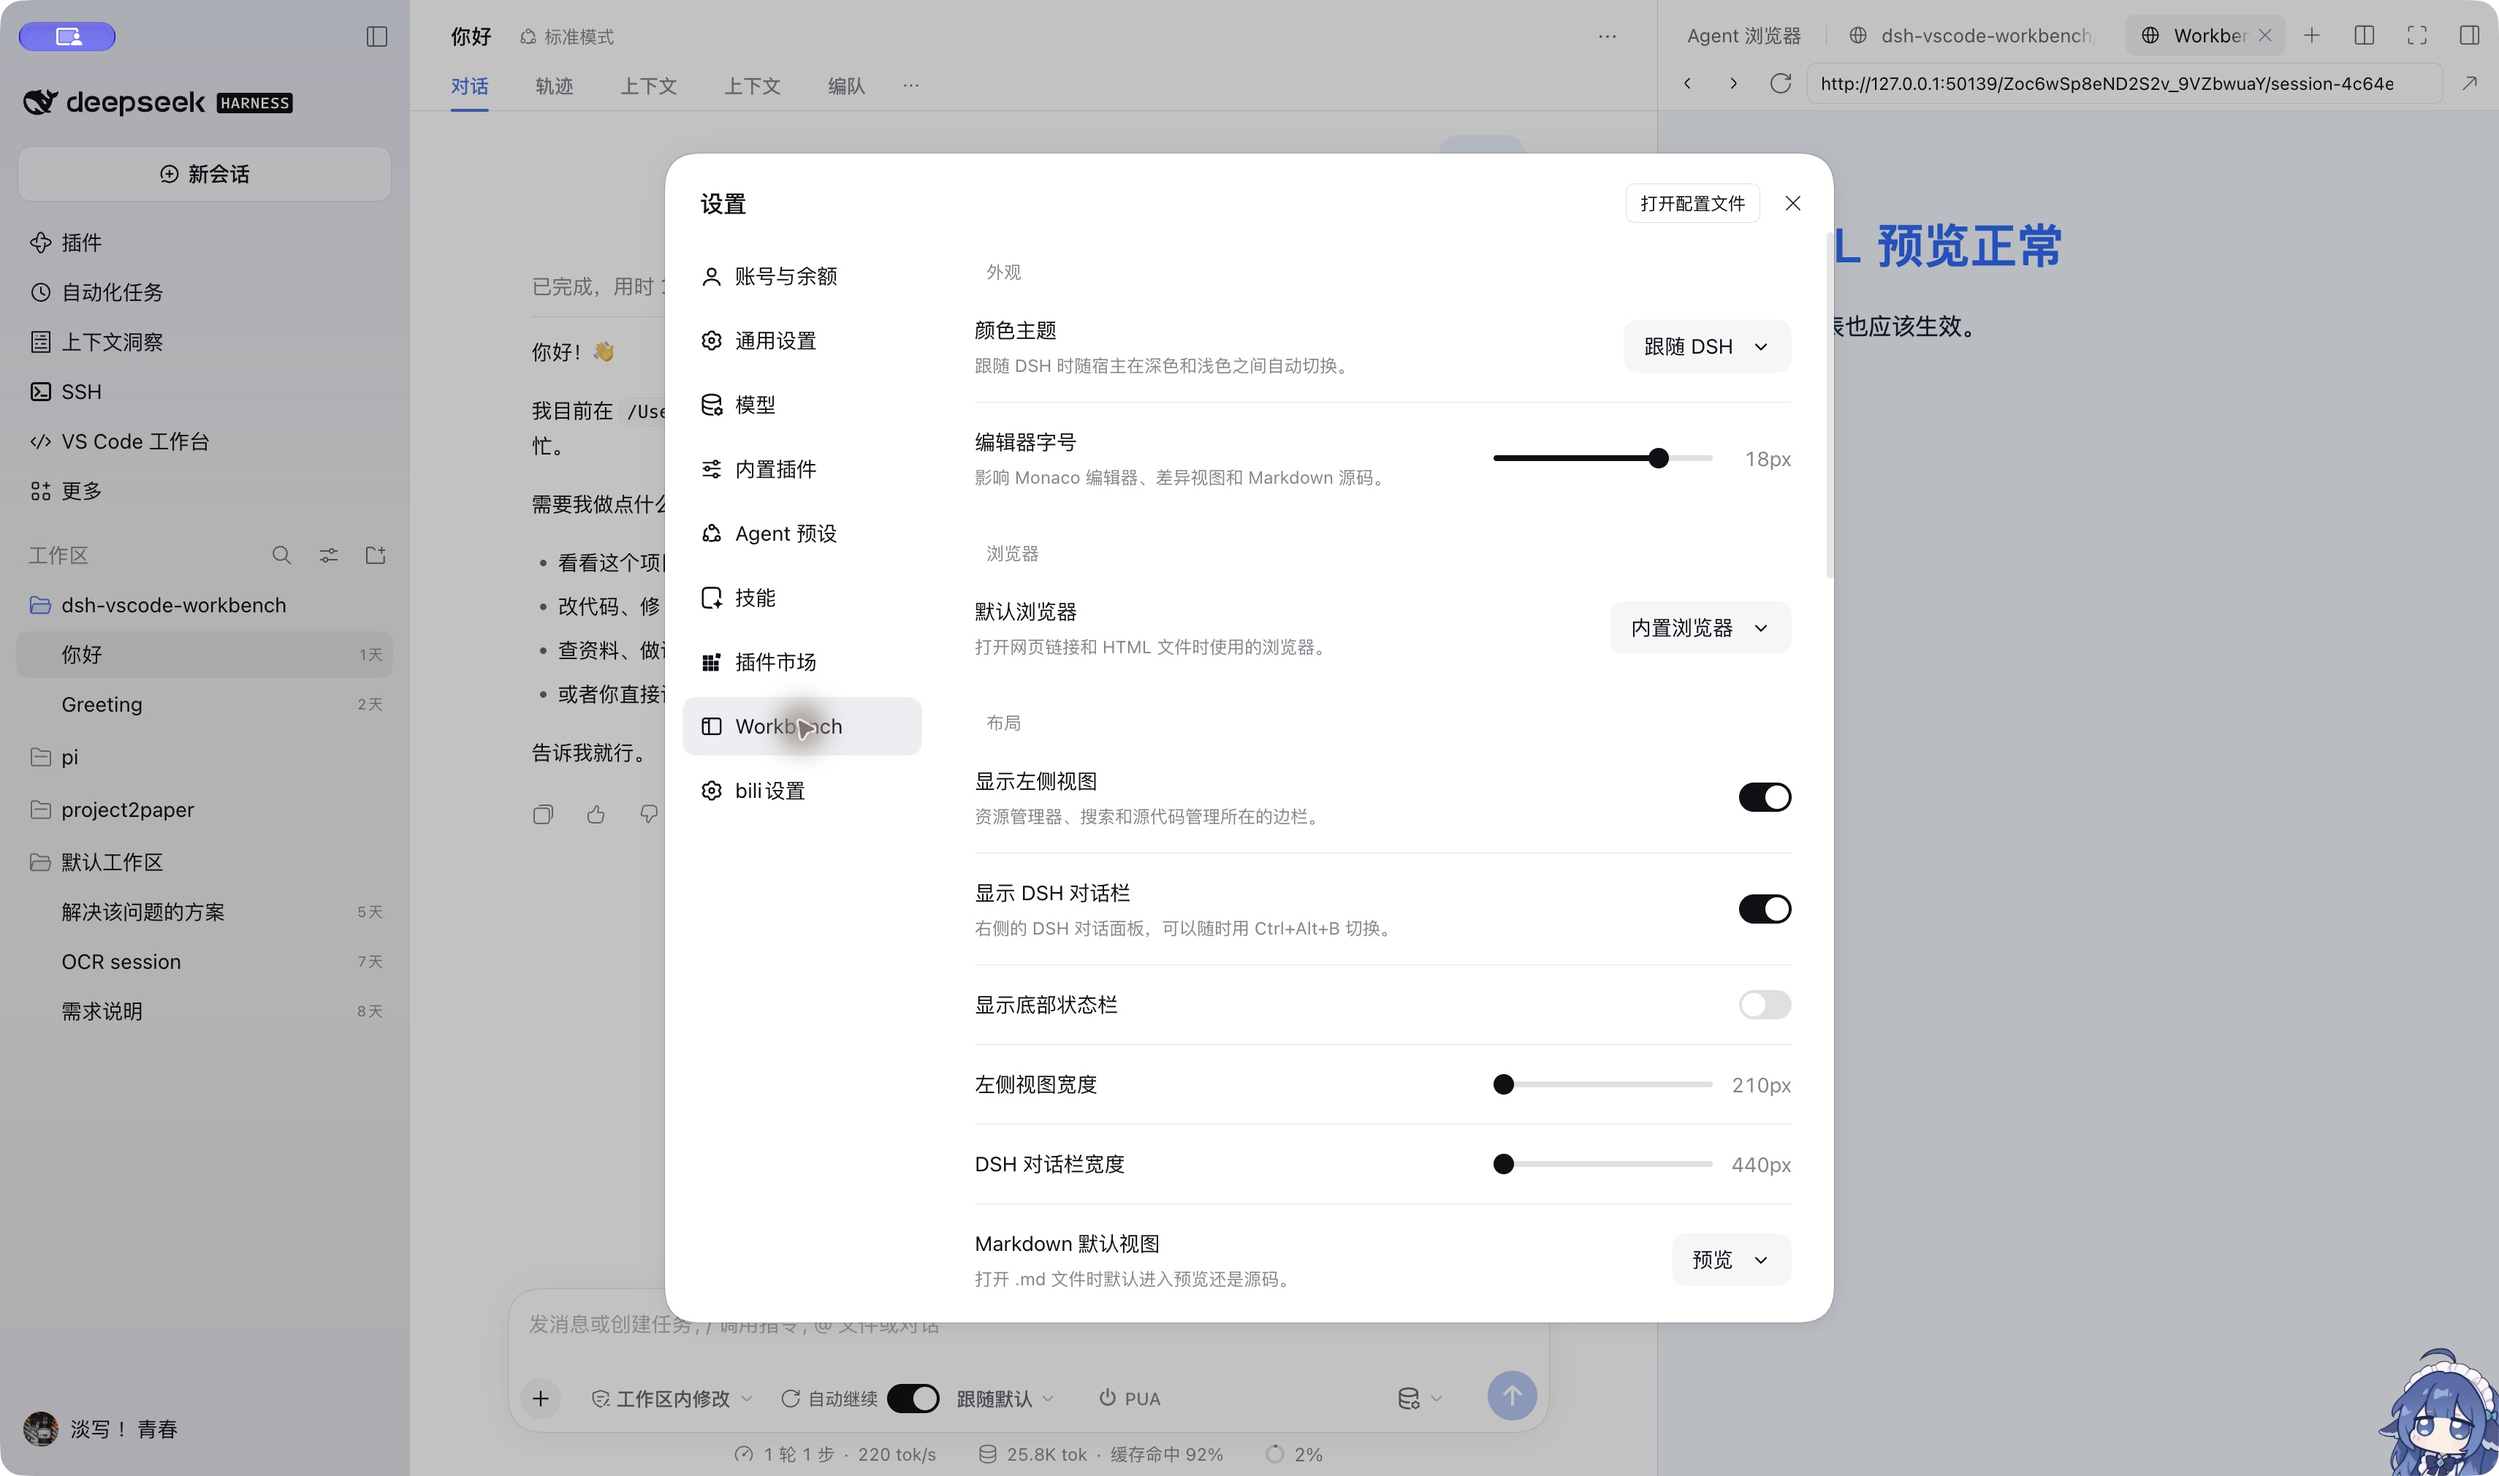
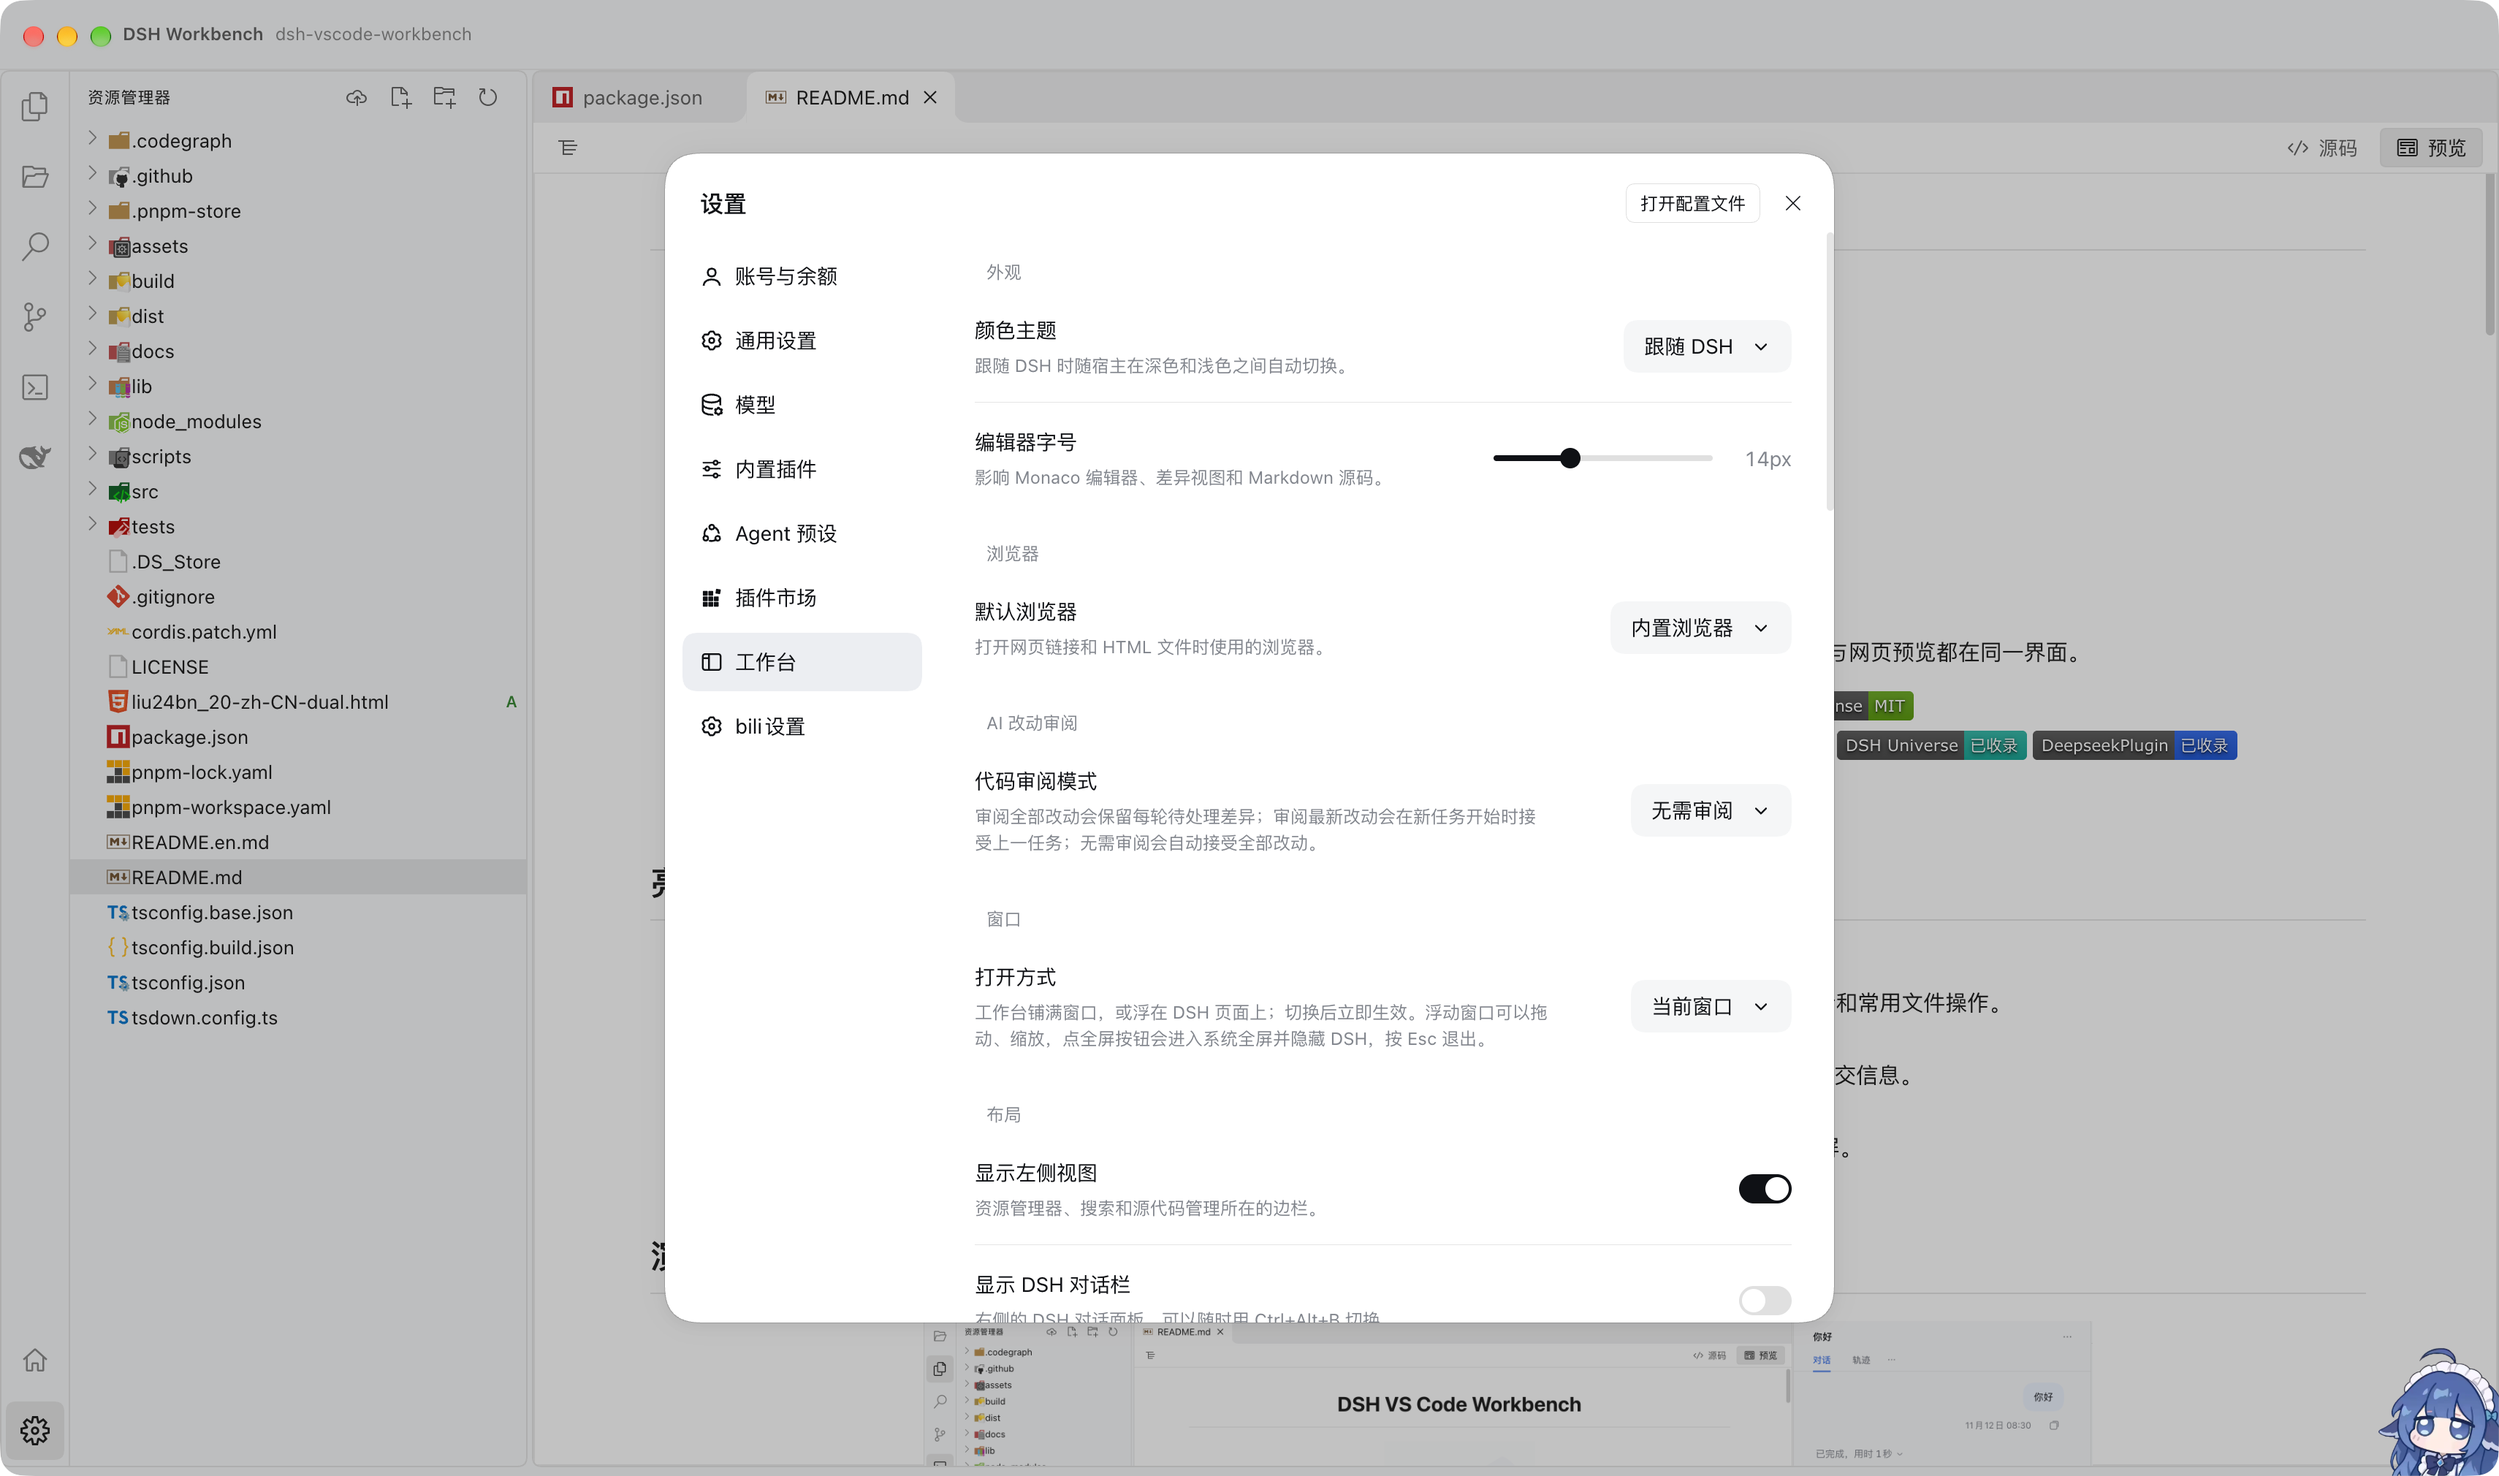
docs: refresh workbench screenshots and describe Git tools

diff --git a/README.en.md b/README.en.md
@@ -34,35 +34,46 @@
 - **Two ways to open**: fill the window as before, or float the workbench over DSH with dragging, eight-way resizing, and real fullscreen.
 - **Built for DSH**: reuse the DSH conversation surface on the right and manage theme and layout from the Workbench page in DSH settings.
 
+## Git workflow
+
+- Open **Git Tools** from Source Control to browse commit or file history, compare branches, tags, commits, or the working tree, manage stashes, sync branches, and resolve merge conflicts.
+- In **Settings → Workbench → Git**, choose a diff style. VS Code opens inline by default. IDEA / PyCharm opens side by side with linked scrolling. Both styles let you switch layouts, navigate changes, and collapse unchanged lines.
+- Click a line in the editor or diff view to see its author, date, short hash, and commit subject at the end of the line. Git line attribution is on by default and can be turned off in the same settings section.
+
 ## Demo
 
 <p align="center">
-  <img src="https://raw.githubusercontent.com/tingfeng347/dsh-vscode-workbench/main/assets/screenshots/workbench-light.png" width="800" alt="Explorer, Markdown preview, terminal, and DSH conversation">
+  <img src="assets/screenshots/workbench-light.png" width="800" alt="Explorer, Markdown preview, terminal, and DSH conversation">
   <br><em>Explorer, Markdown preview, terminal, and DSH conversation</em>
 </p>
 
 <p align="center">
-  <img src="https://raw.githubusercontent.com/tingfeng347/dsh-vscode-workbench/main/assets/screenshots/references-light.png" width="800" alt="Find references with Peek results in the editor">
+  <img src="assets/screenshots/references-light.png" width="800" alt="Find references with Peek results in the editor">
   <br><em>Find references with Peek results in the editor</em>
 </p>
 
 <p align="center">
-  <img src="https://raw.githubusercontent.com/tingfeng347/dsh-vscode-workbench/main/assets/screenshots/source-control-light.png" width="800" alt="Source control, commit graph, and inline/split diffs">
+  <img src="assets/screenshots/source-control-light.png" width="800" alt="Source control, commit graph, and inline/split diffs">
   <br><em>Source control, commit graph, and inline/split diffs</em>
 </p>
 
 <p align="center">
-  <img src="https://raw.githubusercontent.com/tingfeng347/dsh-vscode-workbench/main/assets/screenshots/welcome-light.png" width="800" alt="Start a terminal or open the browser from the empty editor">
+  <img src="assets/screenshots/git-diff-side-by-side-light.png" width="800" alt="IDEA / PyCharm side-by-side diff with change connectors, folding, and navigation">
+  <br><em>IDEA / PyCharm side-by-side diff with change connectors, folding, and navigation</em>
+</p>
+
+<p align="center">
+  <img src="assets/screenshots/welcome-light.png" width="800" alt="Start a terminal or open the browser from the empty editor">
   <br><em>Start a terminal or open the browser from the empty editor</em>
 </p>
 
 <p align="center">
-  <img src="https://raw.githubusercontent.com/tingfeng347/dsh-vscode-workbench/main/assets/screenshots/settings-light.png" width="800" alt="The DSH Workbench page inside DSH settings: theme, font size, layout, commit messages, and language services">
-  <br><em>Settings live in DSH's own dialog: theme, font size, layout, commit messages, and language services</em>
+  <img src="assets/screenshots/settings-light.png" width="800" alt="Workbench settings inside DSH for theme, font size, window, and layout">
+  <br><em>Workbench settings inside DSH for theme, font size, window, and layout</em>
 </p>
 
 <p align="center">
-  <img src="https://raw.githubusercontent.com/tingfeng347/dsh-vscode-workbench/main/assets/screenshots/workspace-switcher-light.png" width="800" alt="Open a workspace, switch sessions, or create a new workspace">
+  <img src="assets/screenshots/workspace-switcher-light.png" width="800" alt="Open a workspace, switch sessions, or create a new workspace">
   <br><em>Open a workspace, switch sessions, or create a new workspace</em>
 </p>
 

diff --git a/README.md b/README.md
@@ -34,35 +34,46 @@
 - **两种打开方式**：工作台可以铺满窗口，也可以作为浮动窗口覆盖在 DSH 之上，支持拖动、八向缩放和真正的系统全屏。
 - **贴合 DSH**：右侧直接复用 DSH 对话能力，主题与布局集中在 DSH 设置的 Workbench 页。
 
+## Git 工作流
+
+- 在「源代码管理 → Git 工具」中查看提交或文件历史、比较分支、标签、提交与工作区，管理 Stash、同步分支或处理合并冲突。
+- 在「设置 → 工作台 → Git」中选择对比样式。VS Code 默认内联，IDEA / PyCharm 默认并排并联动滚动。两种样式都可以切换布局、跳转改动和折叠未改动行。
+- 在普通编辑器或差异视图中点击代码行，行尾会显示提交作者、时间、短哈希和摘要。「逐行提交信息」默认开启，可在同一设置区关闭。
+
 ## 演示
 
 <p align="center">
-  <img src="https://raw.githubusercontent.com/tingfeng347/dsh-vscode-workbench/main/assets/screenshots/workbench-light.png" width="800" alt="资源管理器、Markdown 预览、终端与 DSH 对话">
+  <img src="assets/screenshots/workbench-light.png" width="800" alt="资源管理器、Markdown 预览、终端与 DSH 对话">
   <br><em>资源管理器、Markdown 预览、终端与 DSH 对话</em>
 </p>
 
 <p align="center">
-  <img src="https://raw.githubusercontent.com/tingfeng347/dsh-vscode-workbench/main/assets/screenshots/references-light.png" width="800" alt="编辑器内查找引用与 Peek 结果">
+  <img src="assets/screenshots/references-light.png" width="800" alt="编辑器内查找引用与 Peek 结果">
   <br><em>编辑器内查找引用与 Peek 结果</em>
 </p>
 
 <p align="center">
-  <img src="https://raw.githubusercontent.com/tingfeng347/dsh-vscode-workbench/main/assets/screenshots/source-control-light.png" width="800" alt="源代码管理、提交图与内联/并排差异">
+  <img src="assets/screenshots/source-control-light.png" width="800" alt="源代码管理、提交图与内联/并排差异">
   <br><em>源代码管理、提交图与内联/并排差异</em>
 </p>
 
 <p align="center">
-  <img src="https://raw.githubusercontent.com/tingfeng347/dsh-vscode-workbench/main/assets/screenshots/welcome-light.png" width="800" alt="空编辑器可直接新建终端或打开浏览器">
+  <img src="assets/screenshots/git-diff-side-by-side-light.png" width="800" alt="IDEA / PyCharm 并排差异，带改动连线、折叠和差异导航">
+  <br><em>IDEA / PyCharm 并排差异，带改动连线、折叠和差异导航</em>
+</p>
+
+<p align="center">
+  <img src="assets/screenshots/welcome-light.png" width="800" alt="空编辑器可直接新建终端或打开浏览器">
   <br><em>空编辑器可直接新建终端或打开浏览器</em>
 </p>
 
 <p align="center">
-  <img src="https://raw.githubusercontent.com/tingfeng347/dsh-vscode-workbench/main/assets/screenshots/settings-light.png" width="800" alt="DSH 设置里的 DSH Workbench 页：主题、字号、布局、提交信息与语言服务">
-  <br><em>设置直接开在 DSH 官方设置里：主题、字号、布局、提交信息与语言服务</em>
+  <img src="assets/screenshots/settings-light.png" width="800" alt="DSH 内的工作台设置，包括主题、编辑器字号、窗口和布局">
+  <br><em>DSH 内的工作台设置，包括主题、编辑器字号、窗口和布局</em>
 </p>
 
 <p align="center">
-  <img src="https://raw.githubusercontent.com/tingfeng347/dsh-vscode-workbench/main/assets/screenshots/workspace-switcher-light.png" width="800" alt="打开工作区、切换会话与新建工作区">
+  <img src="assets/screenshots/workspace-switcher-light.png" width="800" alt="打开工作区、切换会话与新建工作区">
   <br><em>打开工作区、切换会话与新建工作区</em>
 </p>
 
